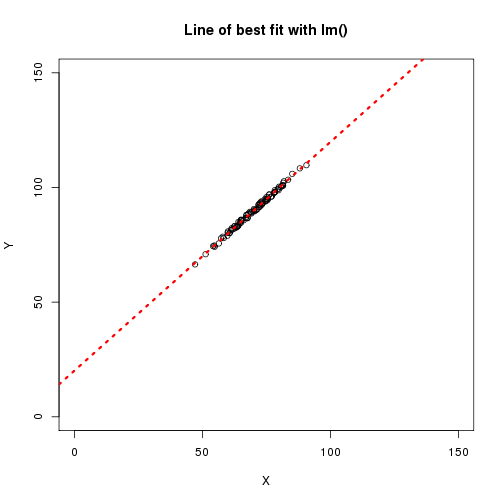
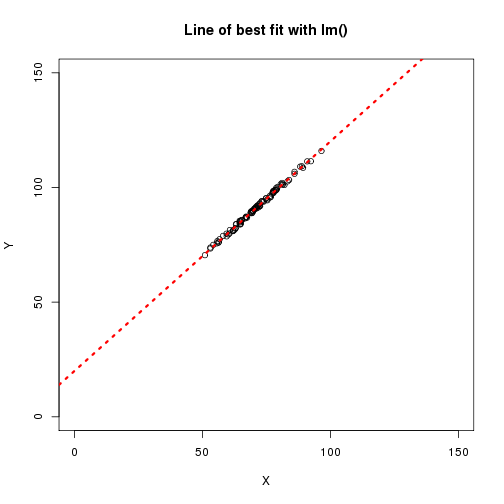
Some fixes

diff --git a/r_course/introToR_Day2.html b/r_course/introToR_Day2.html
@@ -862,7 +862,7 @@ hljs.initHighlightingOnLoad();
   <div class="slides">
 
 <section data-state="section" data-transition="linear" data-transition-speed="default">
-<h1>Introduction to R, Day 2</h1><p>Thomas Carroll</p>
+<h1>Introduction to R, Day 2</h1><p>Thomas Carroll, Sanjay Khadayate, Gopuraja Dharmalingam<br/>Februrary 2st</p>
 
 <div class="slideContent" >
 
@@ -1128,15 +1128,15 @@ y &lt;- letters
 }
 </code></pre>
 
-<pre><code>Number 1 in x is 3
+<pre><code>Number 1 in x is 11
 Letter 1 in the alphabet is a
-Number 2 in x is 9
+Number 2 in x is 24
 Letter 2 in the alphabet is b
-Number 3 in x is 20
+Number 3 in x is 13
 Letter 3 in the alphabet is c
-Number 4 in x is 7
+Number 4 in x is 9
 Letter 4 in the alphabet is d
-Number 5 in x is 24
+Number 5 in x is 18
 Letter 5 in the alphabet is e
 </code></pre>
 
@@ -1210,7 +1210,7 @@ y &lt;- jitter(x,amount=1)+20
 mean(x)
 </code></pre>
 
-<pre><code>[1] 69.86902
+<pre><code>[1] 70.97933
 </code></pre>
 
 <pre><code class="r">lmExample &lt;- data.frame(X=x,Y=y)
@@ -1228,7 +1228,7 @@ lmResult &lt;- lm(Y~X,data=lmExample)
 abline(lmResult,col=&quot;red&quot;,lty=3,lwd=3)
 </code></pre>
 
[2 lines of base64/hex data omitted]
 
 </div>
 
@@ -1377,7 +1377,7 @@ result
 [1] 100
 
 $DateRun
-[1] &quot;Tue Jan 27 16:23:27 2015&quot;
+[1] &quot;Tue Jan 27 16:25:37 2015&quot;
 </code></pre>
 
 <pre><code class="r">c(class(result$Calculation),class(result$DateRun))
@@ -1472,8 +1472,8 @@ function commandsForSlide(indexh) {
       transition: 'linear',
       transitionSpeed: 'default',
       rtl: false,
-      width: 960,
-      height: 700,
+      width: 1440,
+      height: 1100,
     
       dependencies: []
     });

diff --git a/r_course/introToR_Day2.md b/r_course/introToR_Day2.md
@@ -1,11 +1,15 @@
 Introduction to R, Day 2
 ========================================================
-author: Thomas Carroll
-date: 
-css:style.css
+author: Thomas Carroll, Sanjay Khadayate, Gopuraja Dharmalingam
+date: Februrary 2st
+width: 1440
+height: 1100
+autosize: true
 font-import: <link href='http://fonts.googleapis.com/css?family=Slabo+27px' rel='stylesheet' type='text/css'>
 font-family: 'Slabo 27px', serif;
-autosize:true
+css:style.css
+
+
 
 
 Recap -- 
@@ -269,15 +273,15 @@ for(i in 1:length(x)){
 ```
 
 ```
-Number 1 in x is 3
+Number 1 in x is 11
 Letter 1 in the alphabet is a
-Number 2 in x is 9
+Number 2 in x is 24
 Letter 2 in the alphabet is b
-Number 3 in x is 20
+Number 3 in x is 13
 Letter 3 in the alphabet is c
-Number 4 in x is 7
+Number 4 in x is 9
 Letter 4 in the alphabet is d
-Number 5 in x is 24
+Number 5 in x is 18
 Letter 5 in the alphabet is e
 ```
 
@@ -350,7 +354,7 @@ mean(x)
 ```
 
 ```
-[1] 69.86902
+[1] 70.97933
 ```
 
 ```r
@@ -520,7 +524,7 @@ $Calculation
 [1] 100
 
 $DateRun
-[1] "Tue Jan 27 16:23:27 2015"
+[1] "Tue Jan 27 16:25:37 2015"
 ```
 
 ```r
